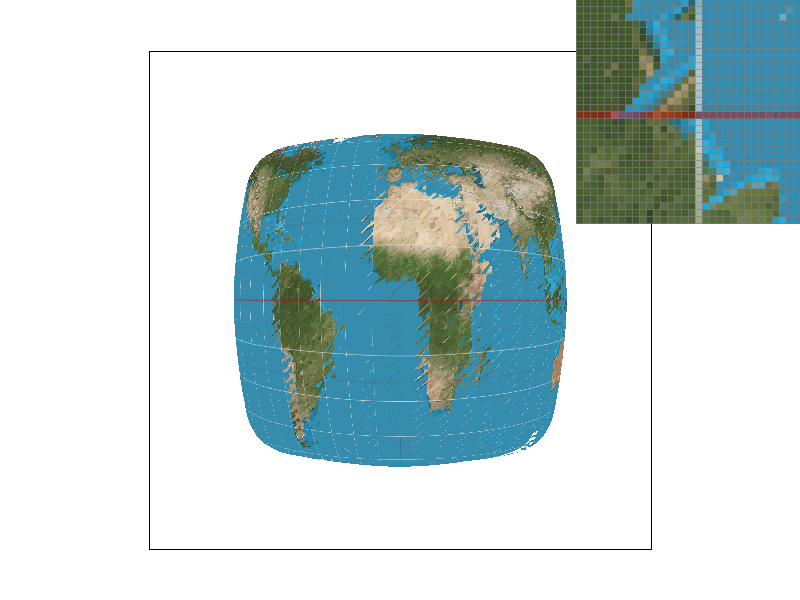
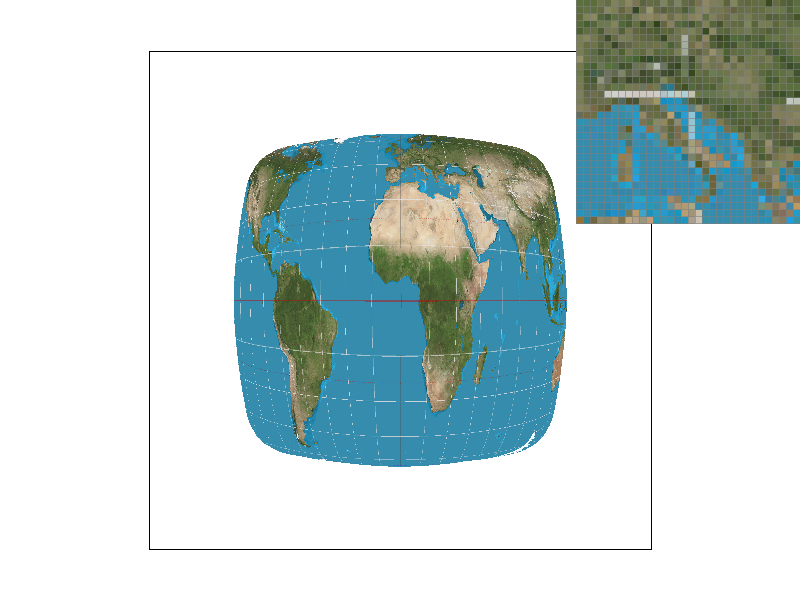
task5 done

diff --git a/hw1/index.html b/hw1/index.html
@@ -228,8 +228,40 @@
 		</div>
 
 		<h2>Task 5: "Pixel sampling" for texture mapping</h2>
-		Lorem ipsum dolor sit amet, consectetur adipiscing elit, sed do eiusmod tempor incididunt ut labore et dolore magna aliqua. Ut enim ad minim veniam, quis nostrud exercitation ullamco laboris nisi ut aliquip ex ea commodo consequat. Duis aute irure dolor in reprehenderit in voluptate velit esse cillum dolore eu fugiat nulla pariatur. Excepteur sint occaecat cupidatat non proident, sunt in culpa qui officia deserunt mollit anim id est laborum.
+		In this section, we implement pixel sampling to texture map a full resolution image using both bilinear and nearest-neighbor interpolation. The goal of this section is to
+		correctly map a texture onto the triangles/shapes in the scene, thus projecting that color onto the screen space. Each vertex of each triangle in the scene has a UV coordinate, which
+		corresponds to a certain texel in the texture. When this UV coordinate does not map directly onto a texel, we decide what color this pixel on screen should be through various methods 
+		of point sampling. In this assignment, we utilize two pixel-sampling approaches: bilinear and nearest neighbor.<br><br>
 
+		For nearest neighbor interpolation, we simply take the color value of the texel closest to our UV mapped coordinate. This generally results in a more pixelated look, and has similar
+		pitfalls to the single sample per pixel rasterization that we implemented in the previous section. The results for nearest neighbor sampling can be seen below. <br><br>
+		
+		<div style="display: flex; flex-direction: column; align-items: center;">
+			<table style="width: 100%; text-align: center; border-collapse: collapse;">
+			  <tr>
+				<td style="text-align: center;">
+				  <img src="task5_near_1pix.png" width="500px"/>
+				  <figcaption>Nearest neighbor 1px</figcaption>
+				</td>
+				<td style="text-align: center;">
+				  <img src="task5_near_16px.png" width="500px"/>
+				  <figcaption>Nearest neighbor 16px</figcaption>
+				</td>
+			  </tr>
+			  <tr>
+				<td style="text-align: center;">
+				  <img src="task5_bi_1pix.png" width="500px"/>
+				  <figcaption>Bilinear 1px</figcaption>
+				</td>
+				<td style="text-align: center;">
+				  <img src="task5_bi_16pix.png" width="500px"/>
+				  <figcaption>Bilinear 16px</figcaption>
+				</td>
+			  </tr>
+			</table>
+		</div>
+
+		
 		<h2>Task 6: "Level Sampling" with mipmaps for texture mapping</h2>
 		Lorem ipsum dolor sit amet, consectetur adipiscing elit, sed do eiusmod tempor incididunt ut labore et dolore magna aliqua. Ut enim ad minim veniam, quis nostrud exercitation ullamco laboris nisi ut aliquip ex ea commodo consequat. Duis aute irure dolor in reprehenderit in voluptate velit esse cillum dolore eu fugiat nulla pariatur. Excepteur sint occaecat cupidatat non proident, sunt in culpa qui officia deserunt mollit anim id est laborum.
 
